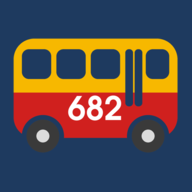
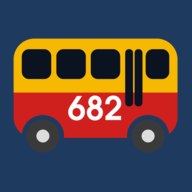
Changes

Changed region(s): [[0.0938, 0.25, 0.9062, 0.5625]]

diff --git a/src/components/AppMenu.tsx b/src/components/AppMenu.tsx
@@ -85,7 +85,7 @@ export default function AppMenu({ collapsible, onCollapsibleChange }: AppMenuPro
           </Tabs>
         </SheetContent>
       </Sheet>
-      <AppLogo className="h-9 w-9" />
+      <AppLogo className="h-10 w-10" />
       <span className="text-sm font-medium text-muted-foreground">Generator opisów</span>
     </header>
   );
